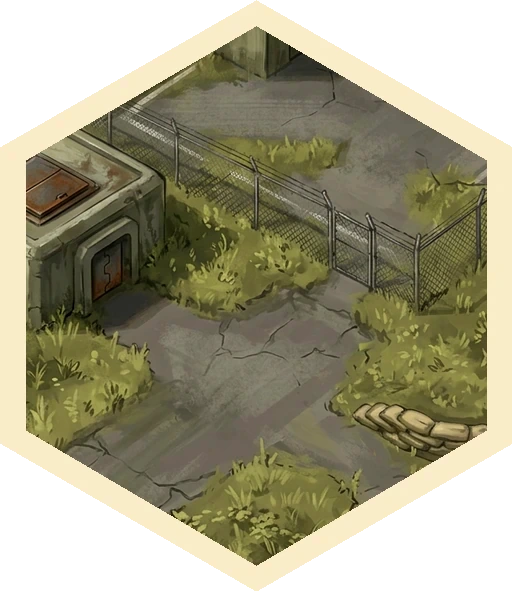
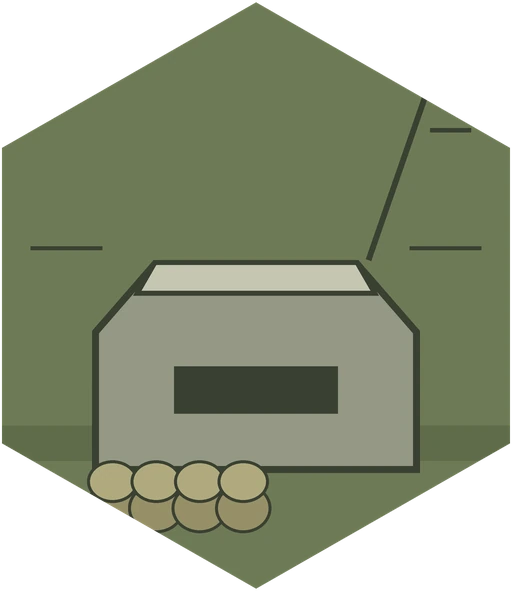
Карта: схематичные иконки гексов, легенда справа, сетка 7x6
- Арт гексов переведён в плоский схематичный стиль: крупная пиктограмма
  местности (камыш, пик горы со снегом, шестерёнка+покрышка, руины в профиль,
  бункер, дюны с солнцем, токсичная лужа с бочкой, знак радиации) — читается
  с первого взгляда даже на плитке 106px
- Убрана кремовая пергаментная кайма, фон залит цветом местности
- Гексы уменьшены на 20%: 132x152 -> 106x122 (моб. 82x95)
- Карта вытянута по вертикали: 4x6 -> 7 рядов по 6 гексов (42 гекса)
- Легенда закреплена справа от карты, не сжимается и не уходит вниз
- Плитки полегчали: 616K -> 132K

diff --git a/index.html b/index.html
@@ -116,16 +116,23 @@
         /* 1. MAP SECTION */
         .map-container {
             display: flex;
-            gap: 40px;
-            flex-wrap: wrap;
+            gap: 28px;
+            align-items: flex-start;
             justify-content: center;
+        }
+
+        @media (max-width: 1040px) {
+            .map-container {
+                flex-wrap: wrap;
+                justify-content: center;
+            }
         }
 
         .hex-field {
             /* Pointy-top сетка: гекс w:h = 1:1.1547 (как 512x591),
                вертикальный шаг = h*0.75, сдвиг нечётного ряда = w/2 */
-            --hex-w: 132px;
-            --hex-h: 152px;
+            --hex-w: 106px;
+            --hex-h: 122px;
             --hex-overlap: calc(var(--hex-h) * -0.25);
             --hex-offset: calc(var(--hex-w) / 2);
             display: flex;
@@ -137,8 +144,8 @@
 
         @media (max-width: 720px) {
             .hex-field {
-                --hex-w: 96px;
-                --hex-h: 111px;
+                --hex-w: 82px;
+                --hex-h: 95px;
             }
         }
 
@@ -172,7 +179,8 @@
             display: block;
             width: 100%;
             height: 100%;
-            object-fit: contain;
+            /* пропорции плитки и бокса почти совпадают, fill убирает зазоры встык */
+            object-fit: fill;
             pointer-events: none;
             user-select: none;
             -webkit-user-drag: none;
@@ -203,7 +211,7 @@
         .hex.selected::after {
             content: "";
             position: absolute;
-            inset: 2px;
+            inset: 0;
             pointer-events: none;
             background: var(--text-main);
             -webkit-mask:
@@ -211,7 +219,7 @@
                 linear-gradient(#fff 0 0);
             -webkit-mask-composite: xor;
                     mask-composite: exclude;
-            padding: 5px;
+            padding: 3px;
             clip-path: polygon(50% 0%, 100% 25%, 100% 75%, 50% 100%, 0% 75%, 0% 25%);
         }
 
@@ -237,9 +245,10 @@
         .legend {
             background: var(--panel-bg);
             border: 4px solid var(--border-color);
-            padding: 20px;
-            flex: 1;
-            min-width: 300px;
+            padding: 18px;
+            flex: 1 1 290px;
+            min-width: 290px;
+            max-width: 380px;
         }
 
         .legend-item {
@@ -1100,10 +1109,11 @@
                 onerror="this.outerHTML='<span class=\\'hex-fallback\\'>${fb}</span>'">`;
         }
 
-        for (let r = 0; r < 4; r++) {
+        const MAP_ROWS = 7, MAP_COLS = 6;
+        for (let r = 0; r < MAP_ROWS; r++) {
             const row = document.createElement('div');
             row.className = 'hex-row' + (r % 2 ? ' offset' : '');
-            for (let c = 0; c < 6; c++) {
+            for (let c = 0; c < MAP_COLS; c++) {
                 const hex = document.createElement('div');
                 const terrain = terrains[Math.floor(Math.random() * terrains.length)];
                 hex.className = `hex hex-${terrain}`;
